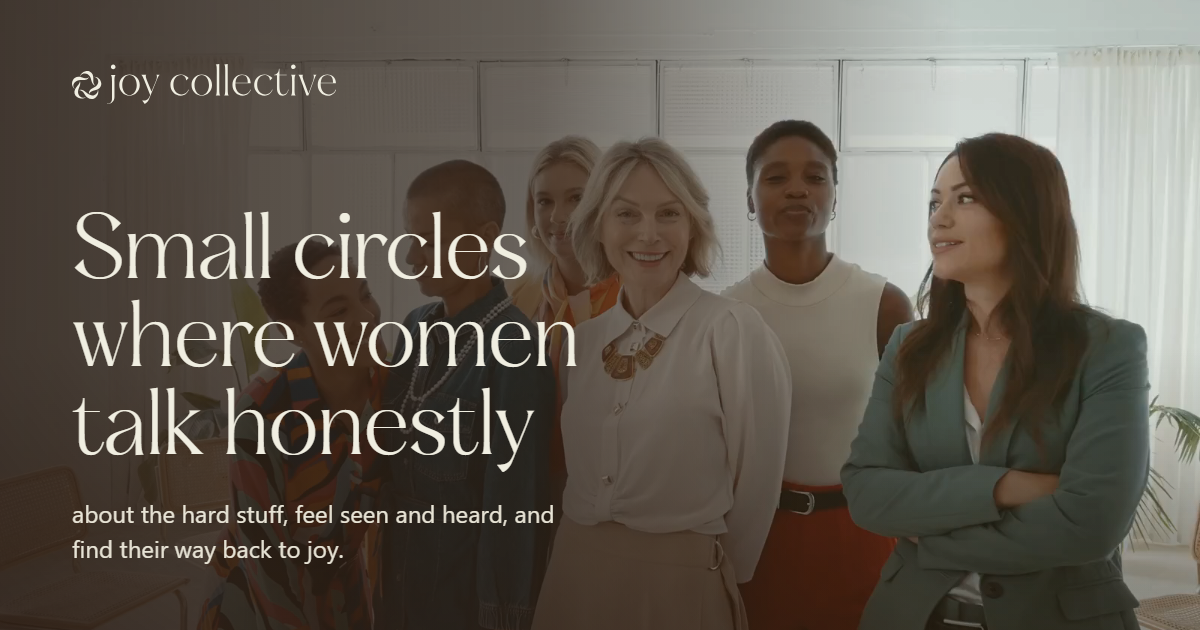
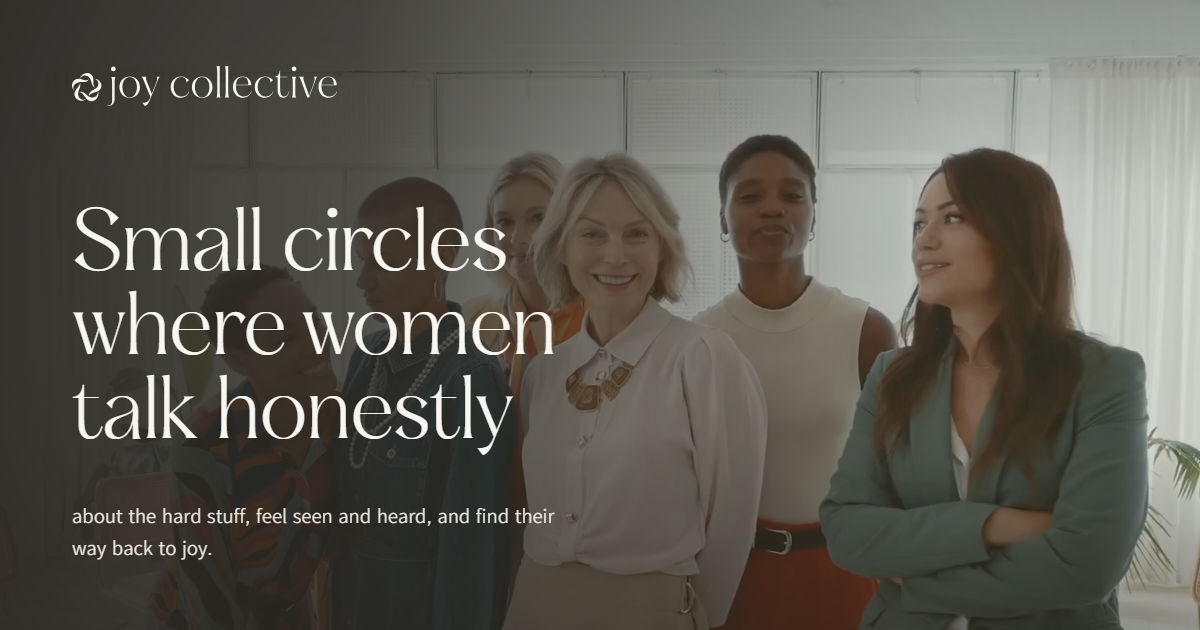
OG image in the new greige palette; point OG/Twitter URLs at fernanda-b

diff --git a/index.html b/index.html
@@ -12,15 +12,15 @@
 <meta property="og:site_name" content="Joy Collective">
 <meta property="og:title" content="Joy Collective">
 <meta property="og:description" content="Small circles where women talk honestly about the hard stuff, feel seen and heard, and find their way back to joy.">
-<meta property="og:url" content="https://joy-collective-git-fernanda-a-skyline-ag.vercel.app/">
-<meta property="og:image" content="https://joy-collective-git-fernanda-a-skyline-ag.vercel.app/og-image.png">
+<meta property="og:url" content="https://joy-collective-git-fernanda-b-skyline-ag.vercel.app/">
+<meta property="og:image" content="https://joy-collective-git-fernanda-b-skyline-ag.vercel.app/og-image.png">
 <meta property="og:image:width" content="1200">
 <meta property="og:image:height" content="630">
 <meta property="og:image:alt" content="Joy Collective: small circles where women talk honestly">
 <meta name="twitter:card" content="summary_large_image">
 <meta name="twitter:title" content="Joy Collective">
 <meta name="twitter:description" content="Small circles where women talk honestly about the hard stuff, feel seen and heard, and find their way back to joy.">
-<meta name="twitter:image" content="https://joy-collective-git-fernanda-a-skyline-ag.vercel.app/og-image.png">
+<meta name="twitter:image" content="https://joy-collective-git-fernanda-b-skyline-ag.vercel.app/og-image.png">
 <meta name="description" content="Small circles where women talk honestly about the hard stuff, feel seen and heard, and find their way back to joy.">
 <link rel="preconnect" href="https://fonts.googleapis.com">
 <link rel="preconnect" href="https://fonts.gstatic.com" crossorigin>
